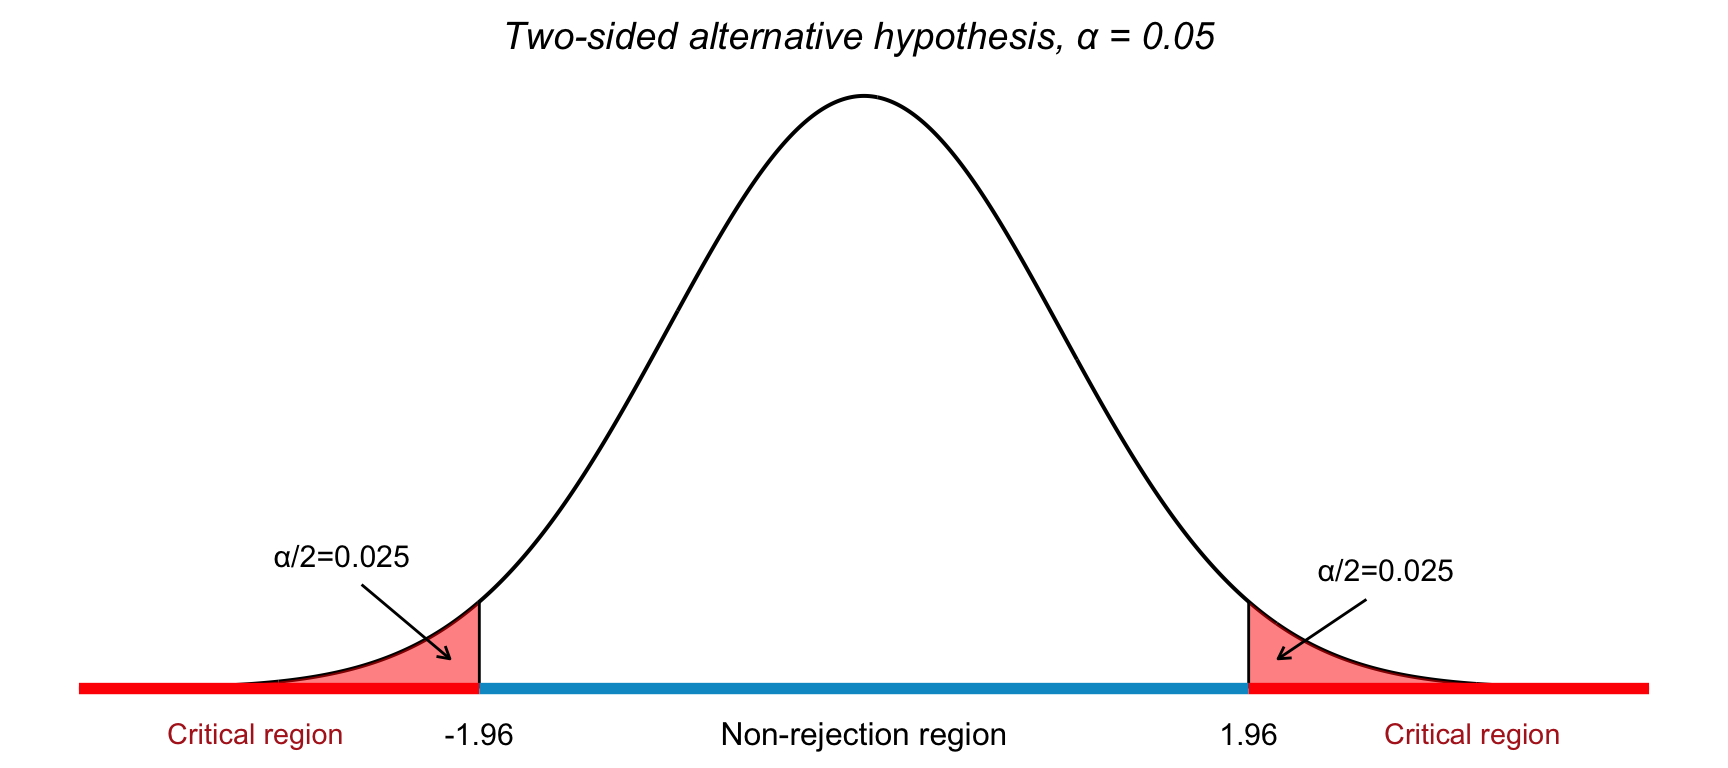
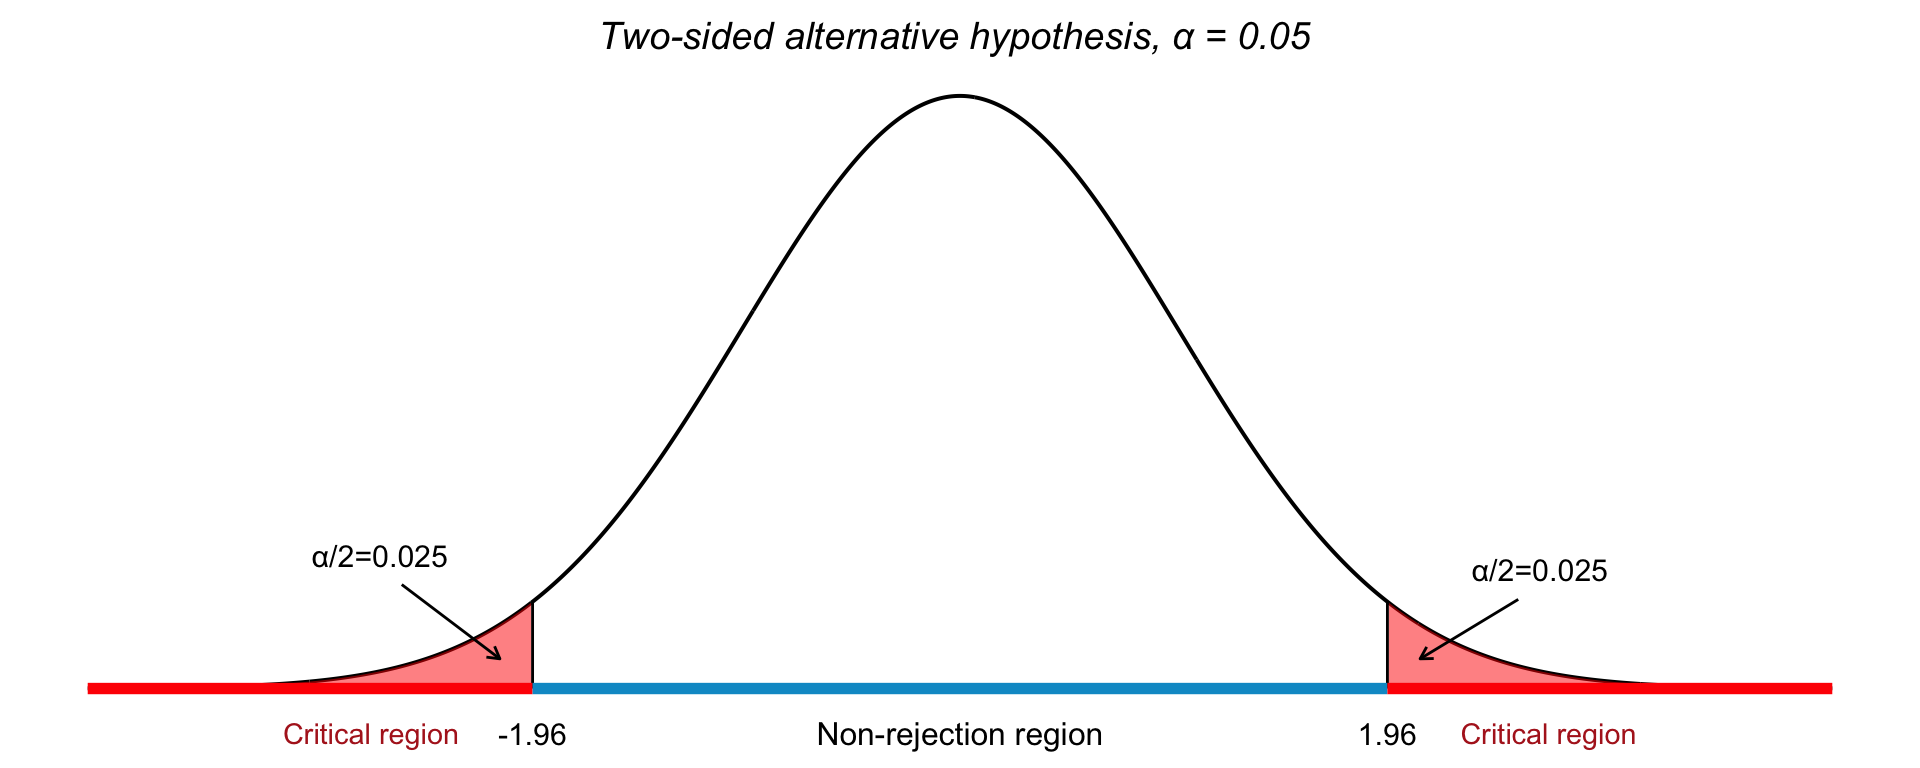
minor fixes chapter 22

diff --git a/docs/inferential/hyp-test.html b/docs/inferential/hyp-test.html
@@ -643,7 +643,7 @@ z_{\alpha/2} = \pm 1.96
 <div class="cell" data-layout-align="center">
 <div class="cell-output-display">
 <div class="quarto-figure quarto-figure-center">
-<figure class="figure"><p><img src="hyp-test_files/figure-html/unnamed-chunk-2-1.png" class="img-fluid quarto-figure quarto-figure-center figure-img" width="864"></p>
+<figure class="figure"><p><img src="hyp-test_files/figure-html/unnamed-chunk-2-1.png" class="img-fluid quarto-figure quarto-figure-center figure-img" width="960"></p>
 </figure>
 </div>
 </div>
@@ -848,7 +848,7 @@ Since the observed test statistic is <span class="math inline">\(z = -1.75\)</sp
 <div class="cell" data-layout-align="center">
 <div class="cell-output-display">
 <div class="quarto-figure quarto-figure-center">
-<figure class="figure"><p><img src="hyp-test_files/figure-html/unnamed-chunk-4-1.png" class="img-fluid quarto-figure quarto-figure-center figure-img" width="864"></p>
+<figure class="figure"><p><img src="hyp-test_files/figure-html/unnamed-chunk-4-1.png" class="img-fluid quarto-figure quarto-figure-center figure-img" width="960"></p>
 </figure>
 </div>
 </div>
@@ -891,7 +891,7 @@ t = \frac{\bar{x} - \mu_0}{s / \sqrt{n}} = \frac{24.1 - 25}{2 / \sqrt{15}} \appr
 <div class="cell" data-layout-align="center">
 <div class="cell-output-display">
 <div class="quarto-figure quarto-figure-center">
-<figure class="figure"><p><img src="hyp-test_files/figure-html/unnamed-chunk-5-1.png" class="img-fluid quarto-figure quarto-figure-center figure-img" width="768"></p>
+<figure class="figure"><p><img src="hyp-test_files/figure-html/unnamed-chunk-5-1.png" class="img-fluid quarto-figure quarto-figure-center figure-img" width="960"></p>
 </figure>
 </div>
 </div>
@@ -993,7 +993,7 @@ Since <span class="math inline">\(z_{\text{obs}} = 1.45\)</span> is less than th
 <div class="cell" data-layout-align="center">
 <div class="cell-output-display">
 <div class="quarto-figure quarto-figure-center">
-<figure class="figure"><p><img src="hyp-test_files/figure-html/unnamed-chunk-6-1.png" class="img-fluid quarto-figure quarto-figure-center figure-img" width="768"></p>
+<figure class="figure"><p><img src="hyp-test_files/figure-html/unnamed-chunk-6-1.png" class="img-fluid quarto-figure quarto-figure-center figure-img" width="960"></p>
 </figure>
 </div>
 </div>
@@ -1056,7 +1056,7 @@ p\text{-value} = 2 \left[1 - \Phi\left(|z_{\text{obs}}|\right)\right]
 <div class="cell" data-layout-align="center">
 <div class="cell-output-display">
 <div class="quarto-figure quarto-figure-center">
-<figure class="figure"><p><img src="hyp-test_files/figure-html/unnamed-chunk-8-1.png" class="img-fluid quarto-figure quarto-figure-center figure-img" width="960"></p>
+<figure class="figure"><p><img src="hyp-test_files/figure-html/unnamed-chunk-8-1.png" class="img-fluid quarto-figure quarto-figure-center figure-img" width="1152"></p>
 </figure>
 </div>
 </div>
